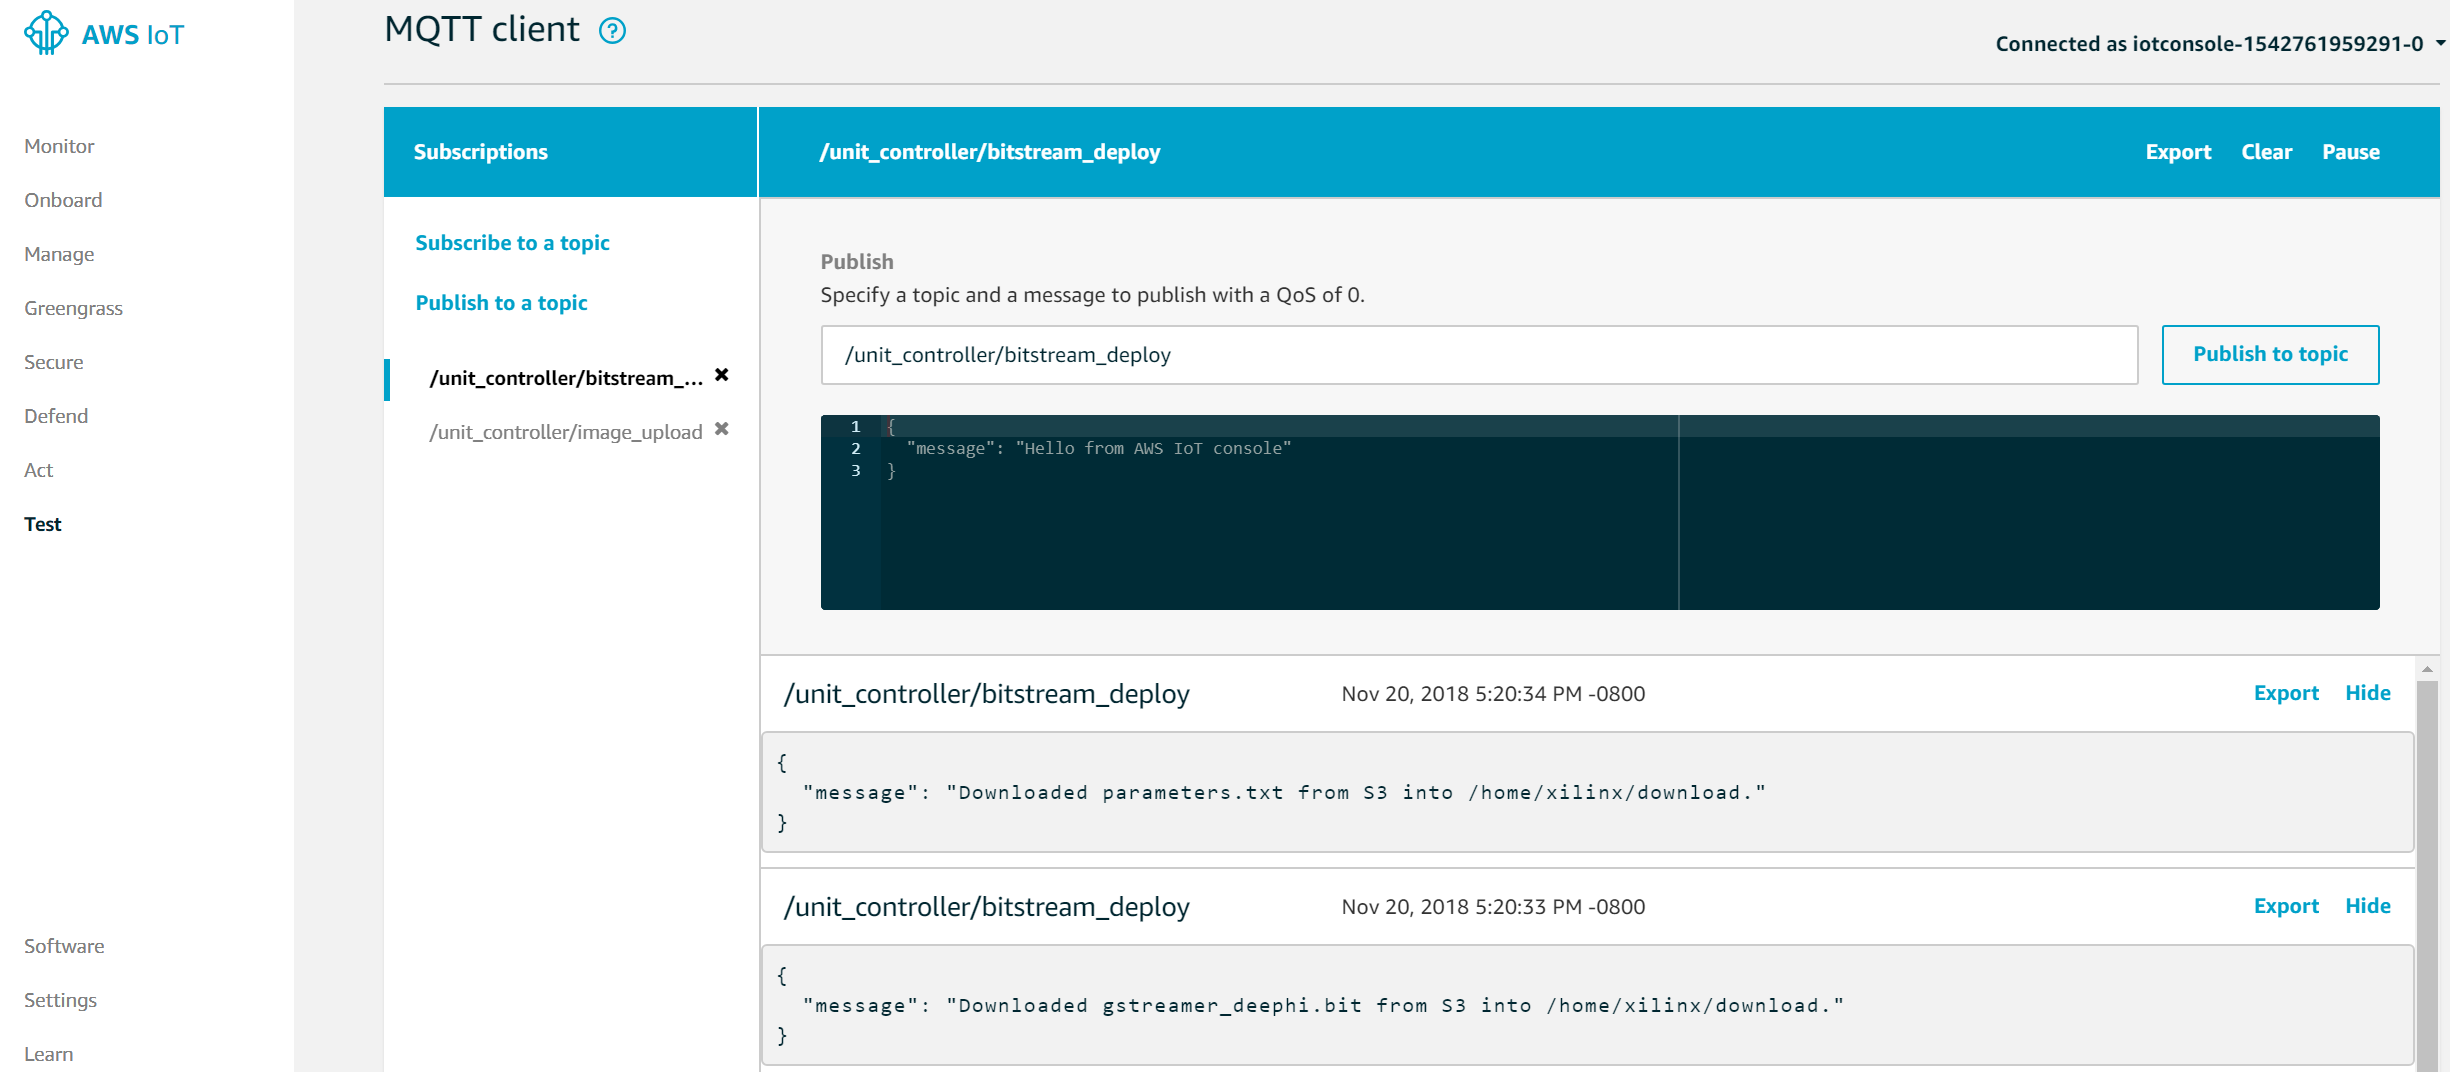
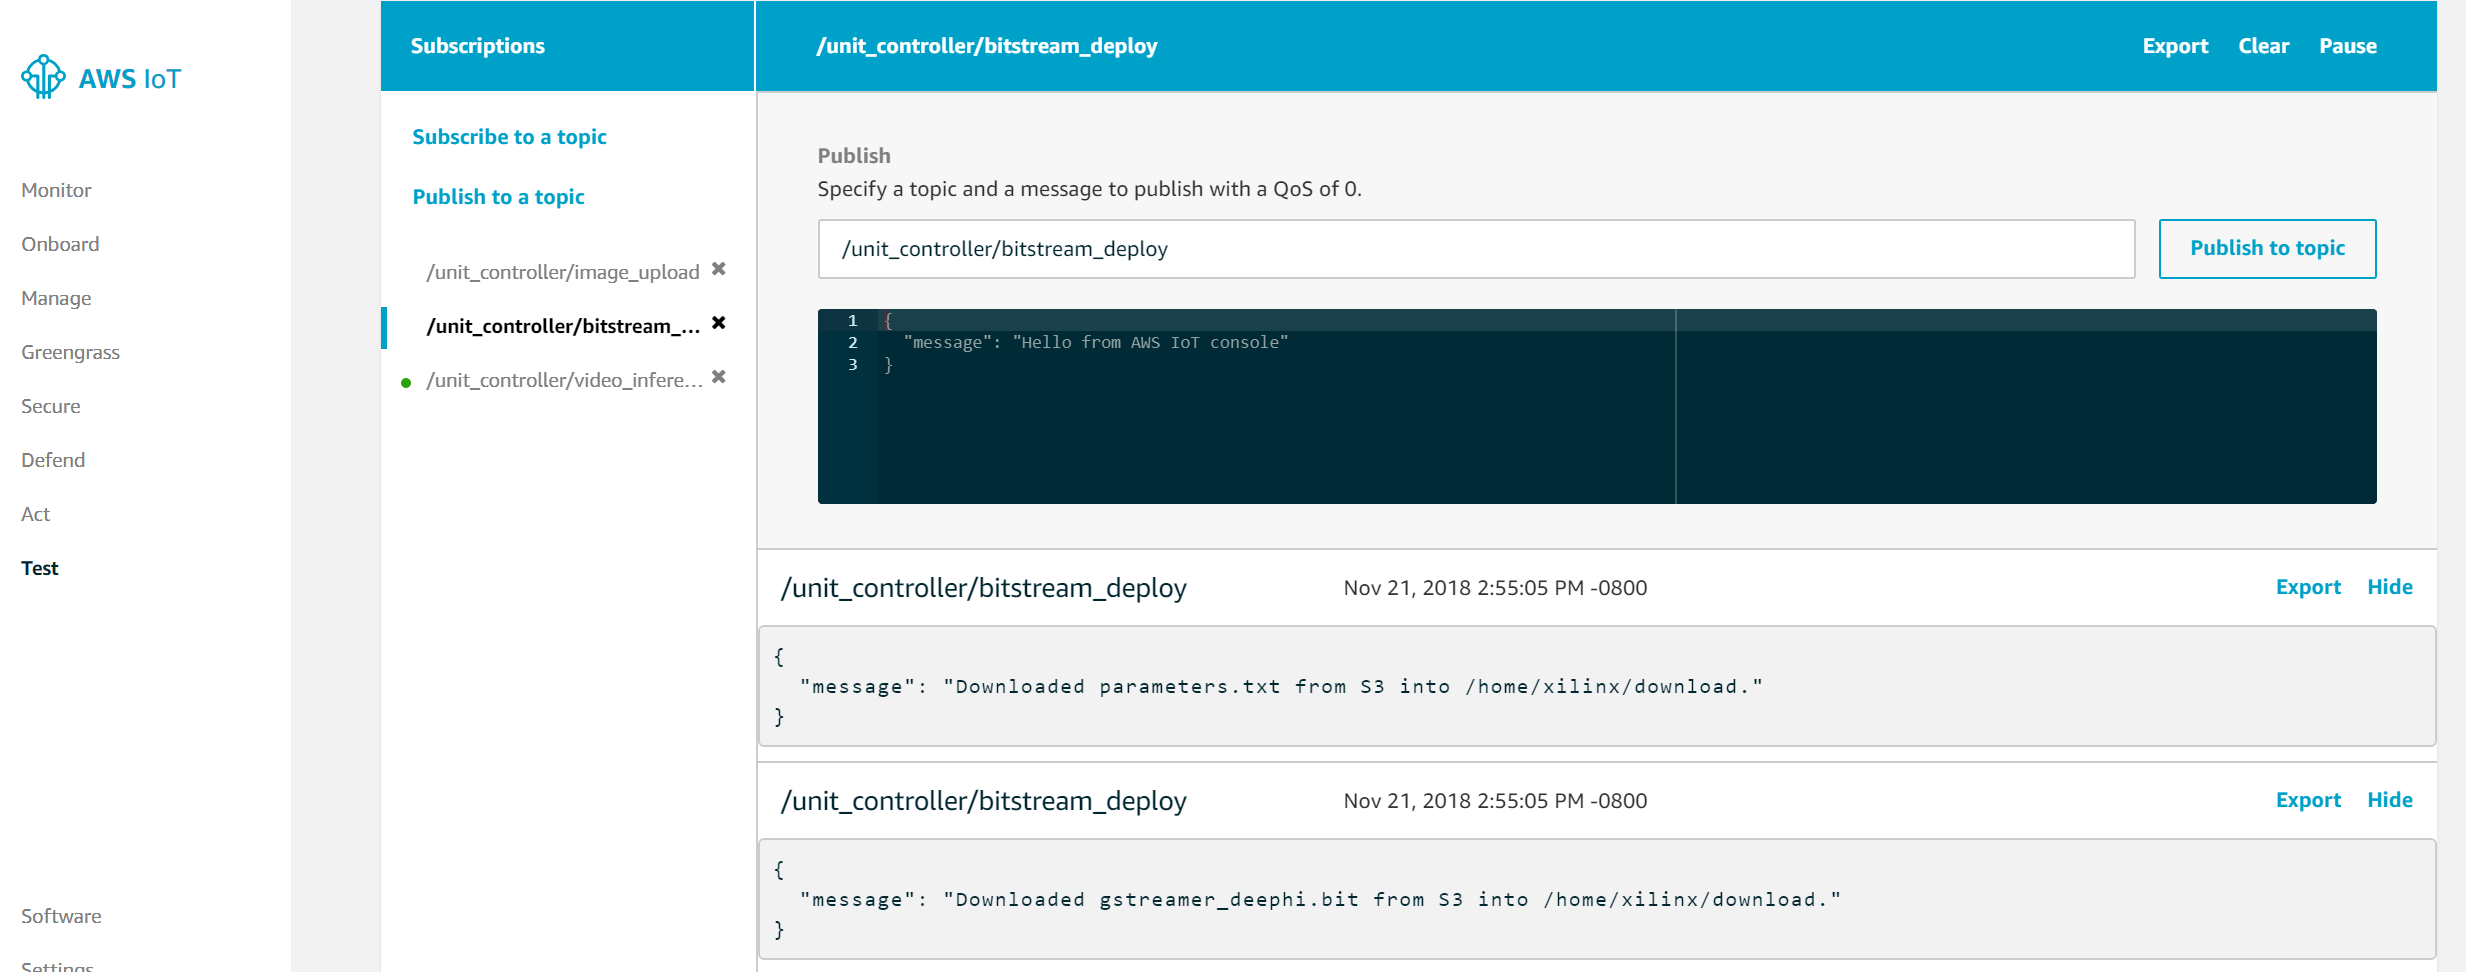
update lab4 with 3 lambda functions

diff --git a/Lab4.md b/Lab4.md
@@ -8,32 +8,19 @@ Amazon IoT console will serve as the system deployment dashboard; we will
 ## Preparation
 
 In lab 2, we already deployed the lambda functions in your Greengrass group. 
-So in this lab we will just reuse the same group you deployed before.
+So in this lab we will just reuse the same group.
 As a summary,
 
 1. Your group name was defined to be `<your-group-prefix>-gateway-ultra96-group`.
 2. Your S3 bucket name was defined to be `<your-unique-prefix>-aws-cloud-and-xilinx-workshop`.
 
-There are a few things to make sure:
+Make sure your greengrass core service are still running. To check that:
 
-1. Your greengrass core service needs to be running. To check that:
+```shell
+ps aux | grep /greengrass/gg/packages/1.7.0/bin/daemon
+```
 
-   ```shell
-   ps aux | grep /greengrass/gg/packages/1.7.0/bin/daemon
-   ```
-   You should be able to see a running process in the background. 
-
-2. Keep in mind that this lab will only succeed if you have a successful 
-   deployment in lab 2. 
-
-3. Our lambda functions have a life time of 500 seconds. So if you have waited
-   too long before doing this lab, run the following command to redeploy 
-   the Greengrass group.
-   
-   ```shell
-   cd $HOME/aws-cloud-and-xilinx-workshop/cloud/script
-   ./deploy-greengrass-group.sh <your-group-prefix>
-   ```
+You should be able to see a running process in the background.
 
 ## Lab Steps
 In lab 2 we tested our AWS Greengrass group on the topic "hello/world"; in this
@@ -43,24 +30,53 @@ lab we will try the other topics:
 bitstream from your S3 bucket.
 * "/unit_controller/image_upload": subscribed lambda function will upload 
 captured pictures with detected people onto the S3 bucket.
+* "/unit_controller/video_inference": subscribed lambda function will capture
+video frames as pictures, and generate some text files storing the number of 
+persons detected in the pictures.
 
-Now lets get started with a successfully deployed AWS Greengrass group:
+Our ML video surveillance application takes in 2 parameters:
+
+* 'num_seconds': specifies how long this application is going to run.
+* 'threshold': specifies the capture condition; that is, the video frame is 
+capture only if there are a number of persons no less than the threshold value.
+
+Now lets get started with the existing AWS Greengrass group:
+
 1. Connect the eCon USB camera to the Ultra96 board J8.  See the picture below 
 showing Ultra96 with the camera connected.
 
    ![alt text](images/Ultra96_WithCamera.jpg?raw=true "Ultra96 with USB Camera")
 
-2. Go to `/home/xilinx/download`; this folder is empty before we do anything.
+2. Go to `/home/xilinx/download`; verify that this folder is empty before we 
+   do anything.
 
-3. Go to the AWS IoT Console page and click on "Test". Click on 
+3. Now lets redeploy the AWS Greengass group.
+
+   ```shell
+   cd $HOME/aws-cloud-and-xilinx-workshop/cloud/script
+   ./deploy-greengrass-group.sh <your-group-prefix>
+   ```
+
+   After a few seconds your group should be successfully deployed.
+
+4. Go to the AWS IoT Console page and click on "Test". Click on 
 "Subscribe to a topic" and enter "/unit_controller/bitstream_deploy". Click on
-"Subscribe to topic" to confirm. Repeat this for the topic 
-"/unit_controller/image_upload".
-See picture below for expected result.
+"Subscribe to topic" to confirm. Repeat this for the topics 
+"/unit_controller/image_upload" and "/unit_controller/video_inference".
 
-   ![alt text](images/Subscribe_Unit_Controller.PNG)
+   See picture below for expected result.
 
-4. Now click on the topic /unit_controller/bitstream_deploy. Click on 
+   ![alt text](images/Subscribe_Video_Inference.PNG)
+
+   Notice that your have a long-running lambda function already publishing
+   on the topic "/unit_controller/video_inference", indicating the video 
+   inference is being called. 
+   
+   Since you have not provided any ML 
+   configurations, the video surveillance application will just use the default
+   parameters ('num_seconds' = 5, 'threshold' = 2).
+
+5. Now click on the topic "/unit_controller/bitstream_deploy". Click on 
 "Publish to topic" to trigger the lambda function. After a few seconds, you 
 should be able to see the following result:
 
@@ -68,46 +84,39 @@ should be able to see the following result:
 
    After this call, your `/home/xilinx/download` is no longer empty.
    This indicates the Ultra96 has received the ML configuration files 
-   (`*.bit` and `*.txt`) from the AWS cloud. 
+   ('*.bit' and '*.txt') from the AWS cloud. 
    You can publish on this topic again, and you will get similar response 
    each time.
+   
+   In the file `parameters.txt`, the first value is the parameter 
+   'num_seconds', and the second value is the parameter 'threshold'.
 
-5. On the Ultra96 debug interface navigate to the directory that is 
+6. When you have seen the message "starting video inference" under the topic 
+"/unit_controller/video_inference", point the camera at a few persons; 
+you should see the "Person Detect Indicator" LED lit when a number of 
+persons are in view of the camera. 
+
+   ![alt text](images/Ultra96_LED_Configuration.PNG?raw=true "Ultra96 User LED Definitions")
+
+   Point the camera at a location where there are no persons; you should see 
+that LED turn off.
+
+7. If there are people detected, you will see a number of files generated in 
+your current directory. These files are uploaded onto the S3 bucket, so
+you will also see some messages on the topic "/unit_controller/image_upload".
+
+   ![alt text](images/Publish_Image_Upload.PNG)
+
+8. On the Ultra96 debug interface navigate to the directory that is 
 synchronized with your S3 bucket.
 
    ```shell
    cd <your-unique-prefix>-aws-cloud-and-xilinx-workshop
    ```
 
-6. Run the ML video surveillance application.
-
-   ```shell
-   sudo /usr/local/bin/pydeephi_yolo.py <num_seconds> <threshold>
-   ```
-
-   In the above command, we are running a person-detect algorithm which outputs 
-the captured video frame (saved as `*.jpg`) along with the number of people 
-detected in that frame (stored in `*.txt`). The argument 'num_seconds' 
-specifies how long this application is going to run. The argument 
-'threshold' specifies the capture condition; that is, the video frame is 
-capture only if there are a number of persons no less than the threshold value.
-
-   You can start with 'num_seconds' = 5 and 'threshold'= 2.
-
-7. Point the camera at a few persons; you should see the 
-"Person Detect Indicator" LED lit when a number of 
-persons are in view of the camera. 
-
-   ![alt text](images/Ultra96_LED_Configuration.PNG?raw=true "Ultra96 User LED Definitions")
-
-   Point the camera at a location where there are no persons; you should see that
-LED turn off.
-
-8. If there are people detected, you will see a number of files generated in 
-your current directory. These files are uploaded onto the S3 bucket, so
-you will also see some messages on the topic "/unit_controller/image_upload".
-
-   ![alt text](images/Publish_Image_Upload.PNG)
+   You will see a bunch of new files generated. The 
+   '<epoch-time>.png' files are the captured frames; the '<epoch-time>.txt'
+   files store the number of people captured in that frame.
 
 9. Go to your S3 bucket on AWS cloud; you will see there is a new folder 
 `images` created. Check the images stored in that folder.
